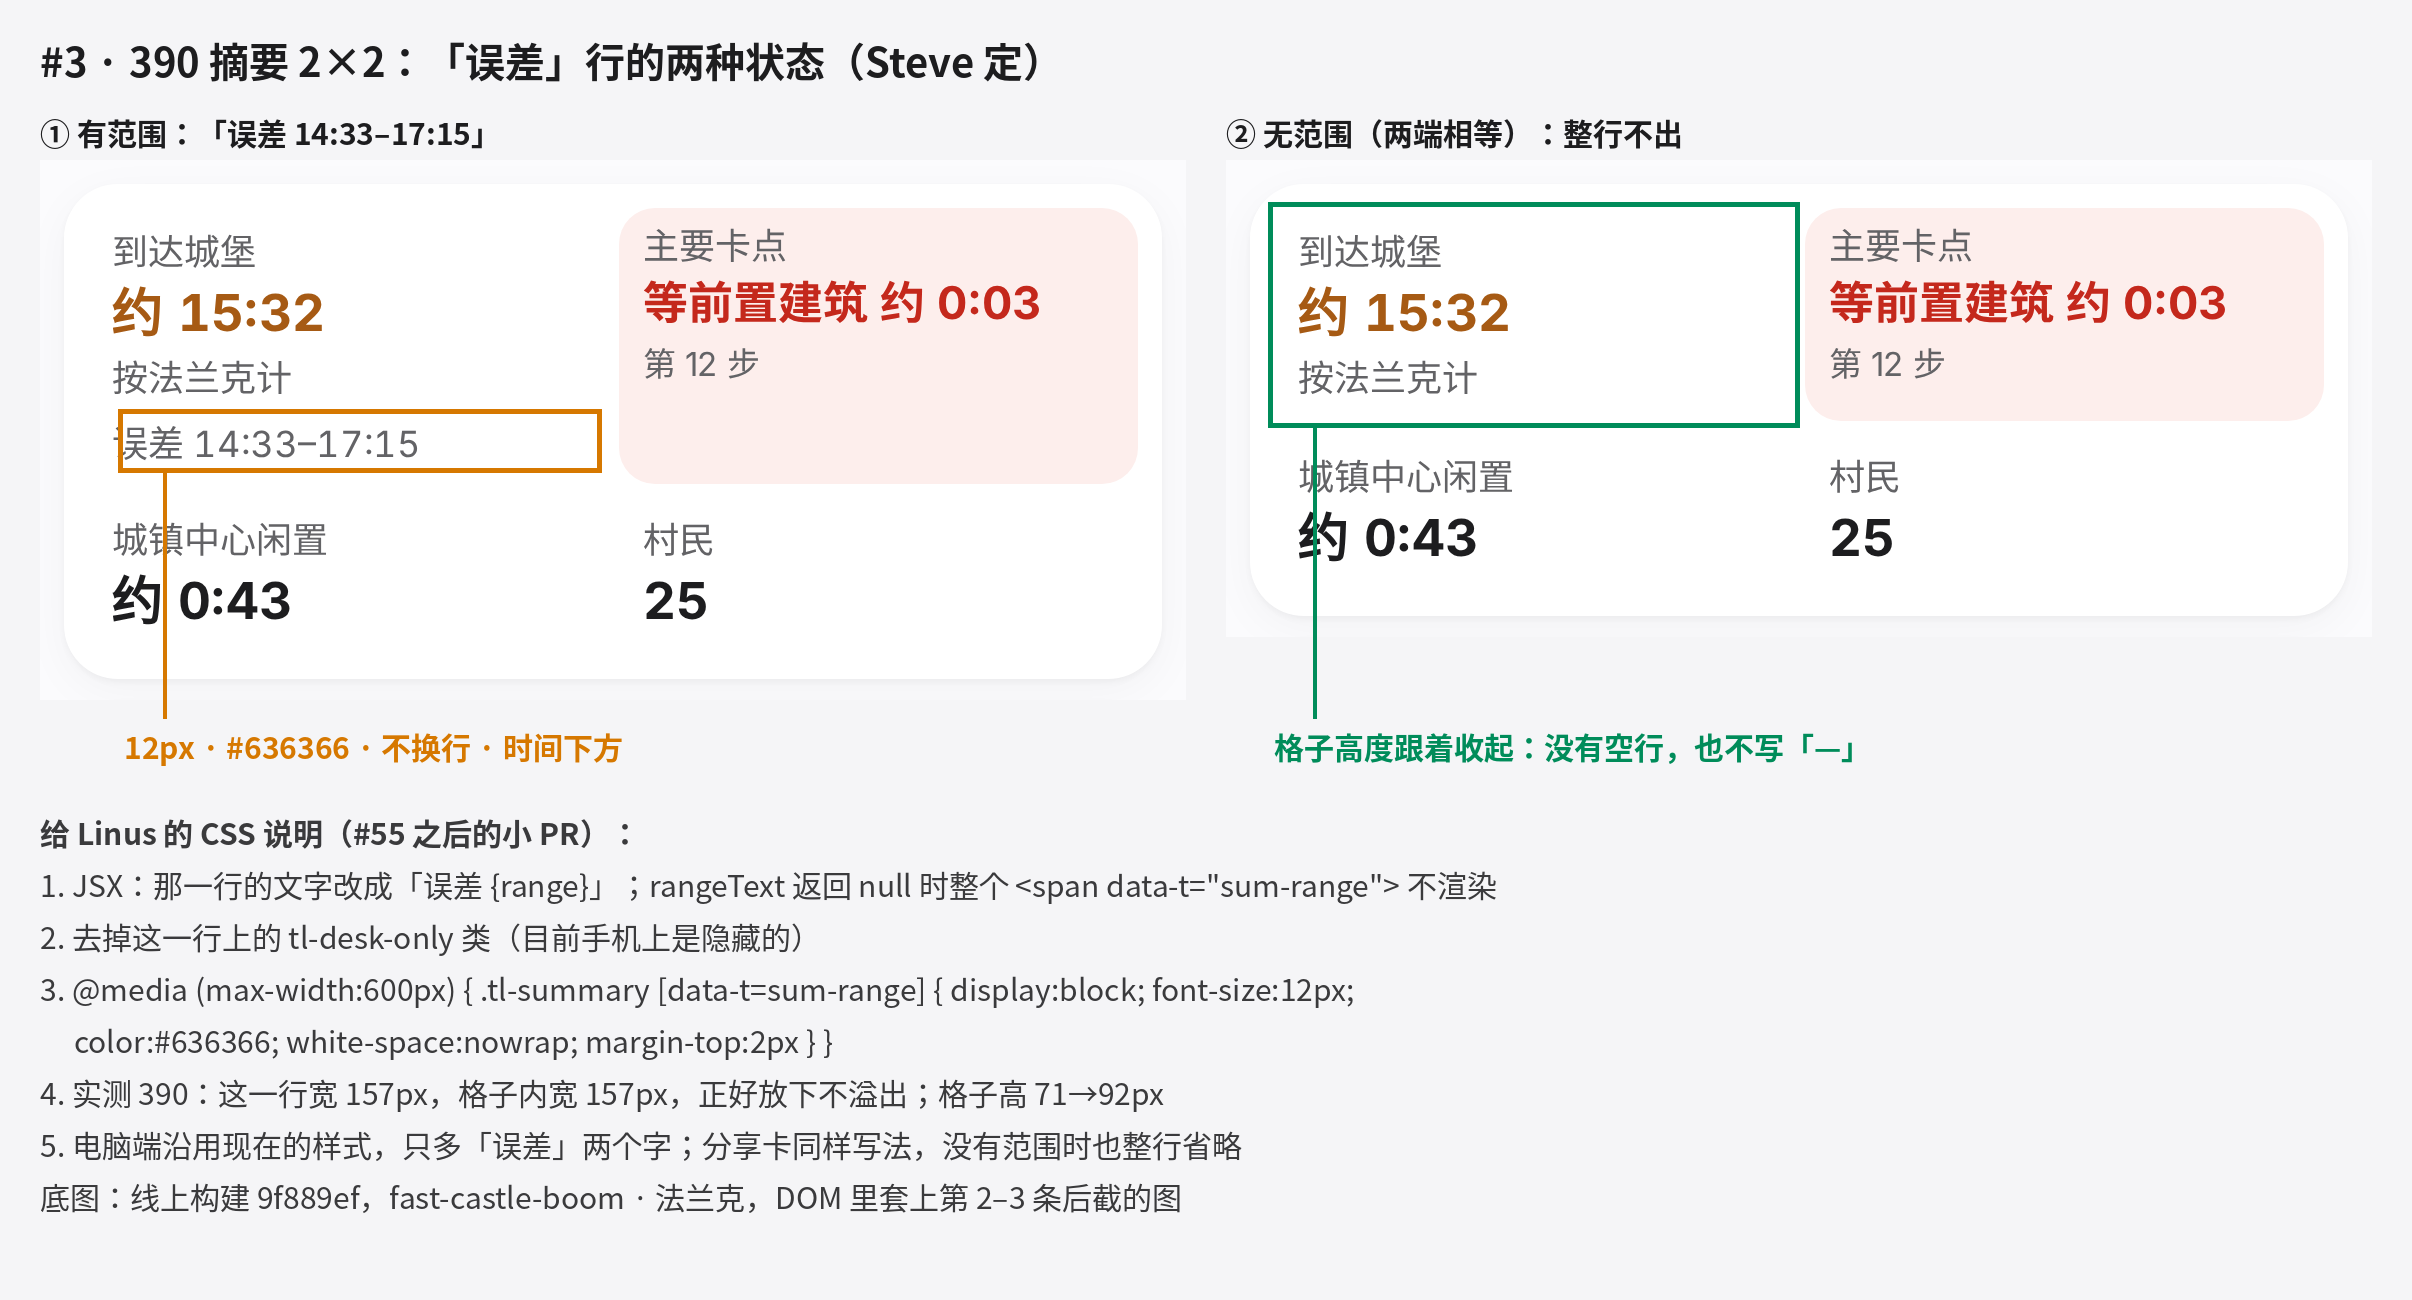
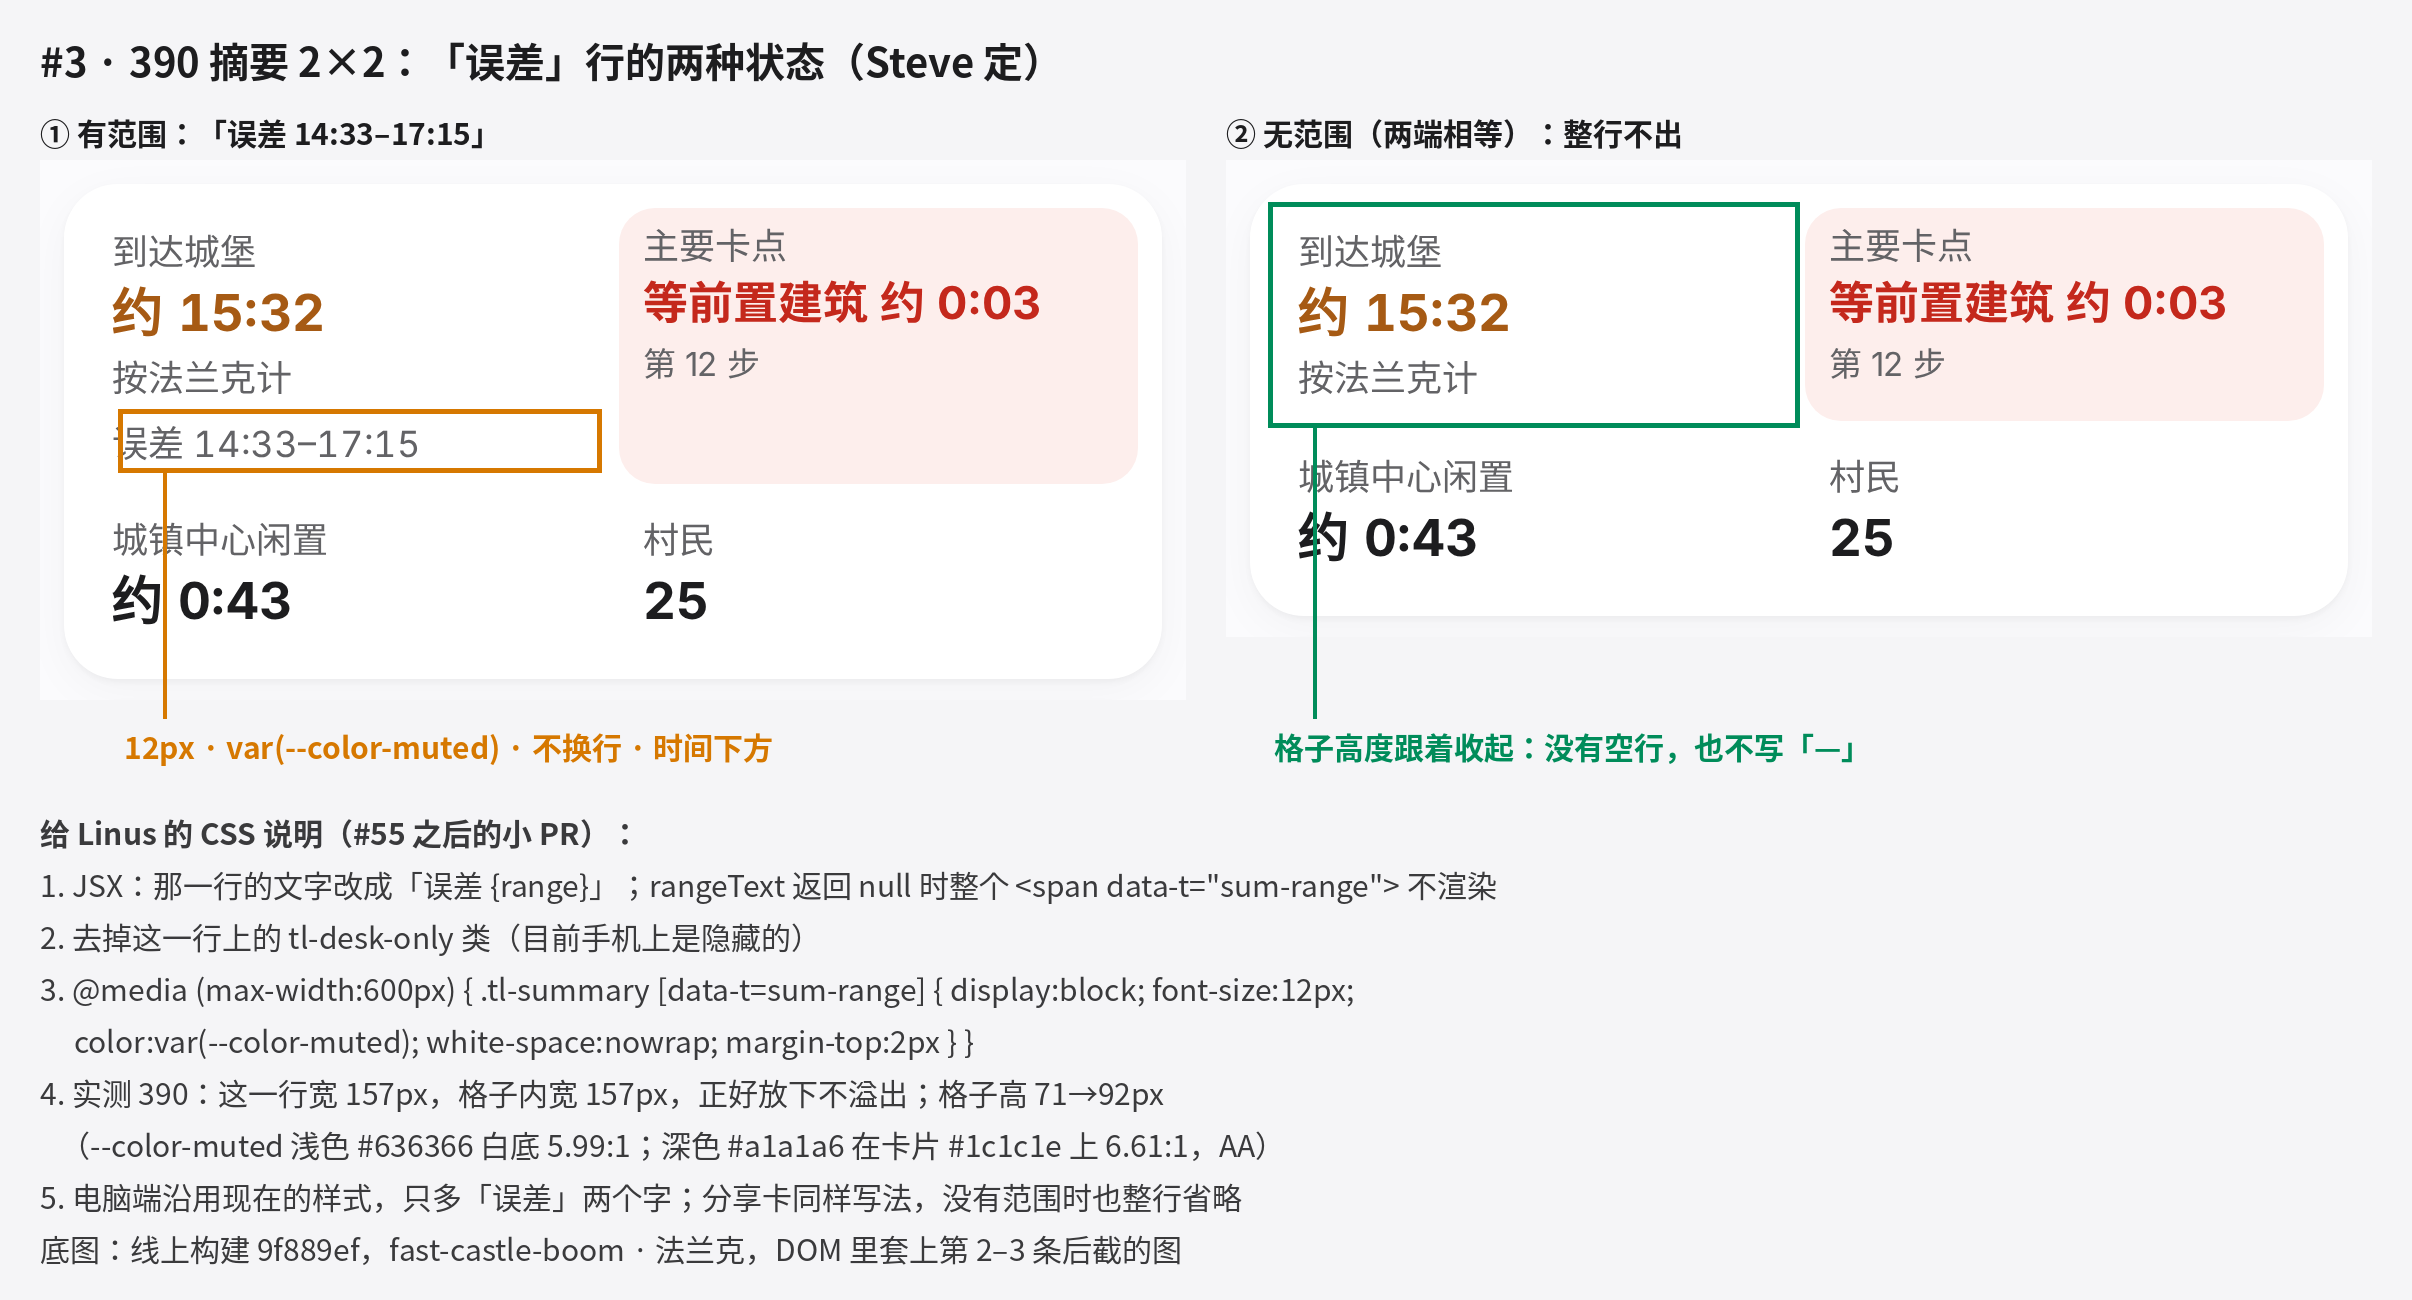
design(#19,#42,#14,#3): 灰色小字改用 --color-muted 令牌，注明深色 #a1a1a6 对比度 6.61:1（#1c1c1e）

Changed region(s): [[0.0, 0.8615, 0.5286, 0.9846], [0.0622, 0.8, 0.4042, 0.8308], [0.0933, 0.5538, 0.3109, 0.5846]]

diff --git a/docs/design/mockups/issue3-summary-2x2/fix.css b/docs/design/mockups/issue3-summary-2x2/fix.css
@@ -6,7 +6,7 @@
   .tl-summary li { padding: 6px var(--space-2); }
   .tl-summary .k {
     font-size: 12px;
-    color: #636366;
+    color: var(--color-muted); /* 浅 #636366 5.99:1；深 #a1a1a6 在 #1c1c1e 上 6.61:1 */
     white-space: nowrap;
     overflow: hidden;
     text-overflow: ellipsis;

diff --git a/docs/design/mockups/issue3-summary-2x2/range-390/annotate.py b/docs/design/mockups/issue3-summary-2x2/range-390/annotate.py
@@ -11,7 +11,7 @@ for i,(img,t) in enumerate(((A,'① 有范围：「误差 14:33–17:15」'),(B,
 # 标注：有范围那一行。range y=217.25 h=17，卡片截图原点 y=132，x 原点=4
 rx,ry=40+(20+12-4)*s,160+(217.25-132)*s
 d.rectangle([rx-6,ry-6,rx+157*s+6,ry+17*s+6],outline=(214,120,0),width=5)
-d.line([rx+40,ry+17*s+6,rx+40,160+A.height+18],fill=(214,120,0),width=4);d.text((rx,160+A.height+24),'12px · #636366 · 不换行 · 时间下方',font=fb,fill=(214,120,0))
+d.line([rx+40,ry+17*s+6,rx+40,160+A.height+18],fill=(214,120,0),width=4);d.text((rx,160+A.height+24),'12px · var(--color-muted) · 不换行 · 时间下方',font=fb,fill=(214,120,0))
 bx=40+A.width+40+(20-4)*s;by=160+(148-132)*s
 d.rectangle([bx-6,by-6,bx+173*s+6,by+71.25*s+6],outline=(0,140,90),width=5)
 d.line([bx+40,by+71.25*s+6,bx+40,160+A.height+18],fill=(0,140,90),width=4);d.text((bx,160+A.height+24),'格子高度跟着收起：没有空行，也不写「—」',font=fb,fill=(0,140,90))
@@ -20,8 +20,9 @@ notes=['给 Linus 的 CSS 说明（#55 之后的小 PR）：',
  '1. JSX：那一行的文字改成「误差 {range}」；rangeText 返回 null 时整个 <span data-t="sum-range"> 不渲染',
  '2. 去掉这一行上的 tl-desk-only 类（目前手机上是隐藏的）',
  '3. @media (max-width:600px) { .tl-summary [data-t=sum-range] { display:block; font-size:12px;',
- '     color:#636366; white-space:nowrap; margin-top:2px } }',
+ '     color:var(--color-muted); white-space:nowrap; margin-top:2px } }',
  '4. 实测 390：这一行宽 157px，格子内宽 157px，正好放下不溢出；格子高 71→92px',
+ '   （--color-muted 浅色 #636366 白底 5.99:1；深色 #a1a1a6 在卡片 #1c1c1e 上 6.61:1，AA）',
  '5. 电脑端沿用现在的样式，只多「误差」两个字；分享卡同样写法，没有范围时也整行省略',
  '底图：线上构建 9f889ef，fast-castle-boom · 法兰克，DOM 里套上第 2–3 条后截的图']
 for n in notes: d.text((40,y),n,font=fm if not n.endswith('：') else fb,fill=(58,58,60));y+=52

diff --git a/docs/design/mockups/issue19/share-card/SPEC.md b/docs/design/mockups/issue19/share-card/SPEC.md
@@ -1,3 +1,5 @@
+> 颜色：页面上的灰色小字一律用令牌 `var(--color-muted)`（浅色 #636366，白底 5.99:1；深色 #a1a1a6，卡片 #1c1c1e 上 6.61:1、页面 #000 上 8.16:1、#2c2c2e 上 5.42:1，均 ≥4.5 AA），不写死色值。分享卡 PNG 固定按浅色渲染。
+
 # #19 分享卡 v0.4 开发交接（Jony，2026-10-11，范围见 #58）
 
 **原则：卡片不自己算，和页面用同一套函数；页面怎么写，卡就怎么写。**
@@ -15,10 +17,10 @@
 | 口径行 | `按{文明}计 · 走路 {n} 格[ · 关自动建房] · 游戏版本 {patch.build}` | | |
 | 页脚 | 能还原同一设置的深链（非默认的 `dist` / `house` 追加） | | |
 
-- 琥珀最多 2 处：格 1 主值、格 2 主值。其余文字 #1d1d1f / #636366（AA 通过）。
+- 琥珀最多 2 处：格 1 主值、格 2 主值。其余文字 #1d1d1f / `var(--color-muted)`（AA 通过）。
 - 规则（Steve，#57）：有卡人口 → 取最早一次，显示**开始时间**「卡人口 约 X 起」；否则按同类（类型+资源）合计等待取最长，显示**合计**「卡在木头 约 6:02」；合计按到秒比较平局取先出现。卡片不另写规则，直接调函数。
 - 长文案：竖版格 2/3 主值 44px 不换行，开局名超过 10 字时竖版标题降为 60px；横版格 2/3 主值 32px 不换行。
-- 置灰文明（`simSupport(civ) === false`，如 v0.4.0 的匈奴）：**不生成分享卡**，页面「分享」按钮置灰（`aria-disabled="true"`，仍可聚焦，`aria-describedby` 指向说明），按钮旁灰字逐字为「加成未计入，暂不能生成分享卡」（12px #636366，白底对比度约 6:1，AA；单行不换行；电脑端在按钮下方，手机底栏在两按钮下方，见 `../../issue42-huns/huns-greyed-share-*.png`）；「复制链接」照常可用；不出「按通用计」的卡，避免把通用数字配上匈奴名字传出去。
+- 置灰文明（`simSupport(civ) === false`，如 v0.4.0 的匈奴）：**不生成分享卡**，页面「分享」按钮置灰（`aria-disabled="true"`，仍可聚焦，`aria-describedby` 指向说明），按钮旁灰字逐字为「加成未计入，暂不能生成分享卡」（12px `var(--color-muted)`，白底对比度约 6:1，AA；单行不换行；电脑端在按钮下方，手机底栏在两按钮下方，见 `../../issue42-huns/huns-greyed-share-*.png`）；「复制链接」照常可用；不出「按通用计」的卡，避免把通用数字配上匈奴名字传出去。
 - 「链接已复制」toast：Lucide `Check` 图标（16px、stroke 2、currentColor），不用 ✓ 字符（替换 cc8d808 样稿），见 `toast-copied-*.png`。
 - 数字来源：Kent #57 验收（PR #57 @ `33c74d4`）与 #3 最终数字；15:32 / 误差 14:33–17:15 / 闲置 0:43 / 0:00 由 PR #57 head 上同一 `simulateBuild` 调用跑出（法兰克、走路 4 格），没有手写数字。
 
@@ -33,7 +35,7 @@
 # #19 分享卡 v2：三层口径（Steve 定）
 
 数据：`ff7999e`（#53 合入；时间统一用 formatClock 向下取整到整秒），`simulateBuild(fast-castle-boom, 'Franks', eco, ups, { walkTiles: 4, autoHouses: true })`；`simSupport('Franks') === true`。（v2 原为 main `bb9ff17`：15:29 / 早 56 秒 · 晚 1:46 / 6:06；`0a0995d` 四舍五入时为 15:33 / 晚 1:43 / 6:03 / 44 秒）
-- 到城堡 reachAt 932.6s → 15:32（点击 772.6s → 12:52），errSec early 59.4 / late 102.5 → 范围 floor(932.6−59.4)=873→14:33，floor(932.6+102.5)=1035→17:15；卡上照页面写法：标签「到达城堡」，下面一行灰字「误差 14:33–17:15」（Steve 定，不再写「早 X 秒 · 晚 Y」；页面和卡都加「误差」两个字；范围两端相同（floor 后相等）时整行不出，不留空行也不写「—」；和线上 `data-t=sum-range` 一致，次要文字色 #636366，在白底上对比度约 6:1，AA 通过）
+- 到城堡 reachAt 932.6s → 15:32（点击 772.6s → 12:52），errSec early 59.4 / late 102.5 → 范围 floor(932.6−59.4)=873→14:33，floor(932.6+102.5)=1035→17:15；卡上照页面写法：标签「到达城堡」，下面一行灰字「误差 14:33–17:15」（Steve 定，不再写「早 X 秒 · 晚 Y」；页面和卡都加「误差」两个字；范围两端相同（floor 后相等）时整行不出，不留空行也不写「—」；和线上 `data-t=sum-range` 一致，`var(--color-muted)`（浅色 `var(--color-muted)`，白底 5.99:1；深色 #a1a1a6，卡片 #1c1c1e 上 6.61:1、页面 #000 上 8.16:1、#2c2c2e 上 5.42:1，均 ≥4.5 AA））
 - resource_short(wood) 9 次，waitSec 合计 362.6s → 6:02；无 pop_block
 - 新增 prereq_wait 1 次（等市场 3.7s，#51 前置建筑规则），不足以改变主卡点，结论仍为「卡在木头」
 - tcIdleTotal 43.6s → 约 43 秒（2 次 idle_tc）

diff --git a/docs/design/mockups/issue14-count/README.md b/docs/design/mockups/issue14-count/README.md
@@ -2,6 +2,6 @@
 
 - 位置：首页「百科 · 单位」入口卡的说明（`src/app/nav/sections.ts` 里 units 的 `desc`）。
 - 文案：`{n} 个单位` + 灰字注「精锐版并入对应单位计」+ `的属性、克制与升级路线`；n 从数据里算（和单位列表的总数同一个来源，当前为 161），不写死。
-- 灰字注：12px #636366，紧跟在数字后面，前后加全角括号；如果 desc 只能是纯文本，就写成「161 个单位（精锐版并入对应单位计）的属性、克制与升级路线」。
+- 灰字注：12px `var(--color-muted)`，紧跟在数字后面，前后加全角括号；如果 desc 只能是纯文本，就写成「161 个单位（精锐版并入对应单位计）的属性、克制与升级路线」。
 - 单位列表页已经显示 161/161，不用改。
 - 图：`home-units-count-1280.png` / `-390.png`（线上首页，DOM 里改了文案）。

diff --git a/docs/design/mockups/issue42-huns/README.md b/docs/design/mockups/issue42-huns/README.md
@@ -10,4 +10,4 @@
 - 复现：`node shot.mjs`。
 
 ## 置灰时的分享按钮（Steve 定）
-`huns-greyed-share-1280.png` / `huns-greyed-share-390.png`：「分享」按钮 aria-disabled 置灰，旁边灰字「加成未计入，暂不能生成分享卡」（12px #636366，AA，单行）；「复制链接」照常可用。底图是线上匈奴置灰页面，按钮是在 DOM 里加上去的。复现：`node share-greyed.mjs`。
+`huns-greyed-share-1280.png` / `huns-greyed-share-390.png`：「分享」按钮 aria-disabled 置灰，旁边灰字「加成未计入，暂不能生成分享卡」（12px `var(--color-muted)`，AA，单行）；「复制链接」照常可用。底图是线上匈奴置灰页面，按钮是在 DOM 里加上去的。复现：`node share-greyed.mjs`。
